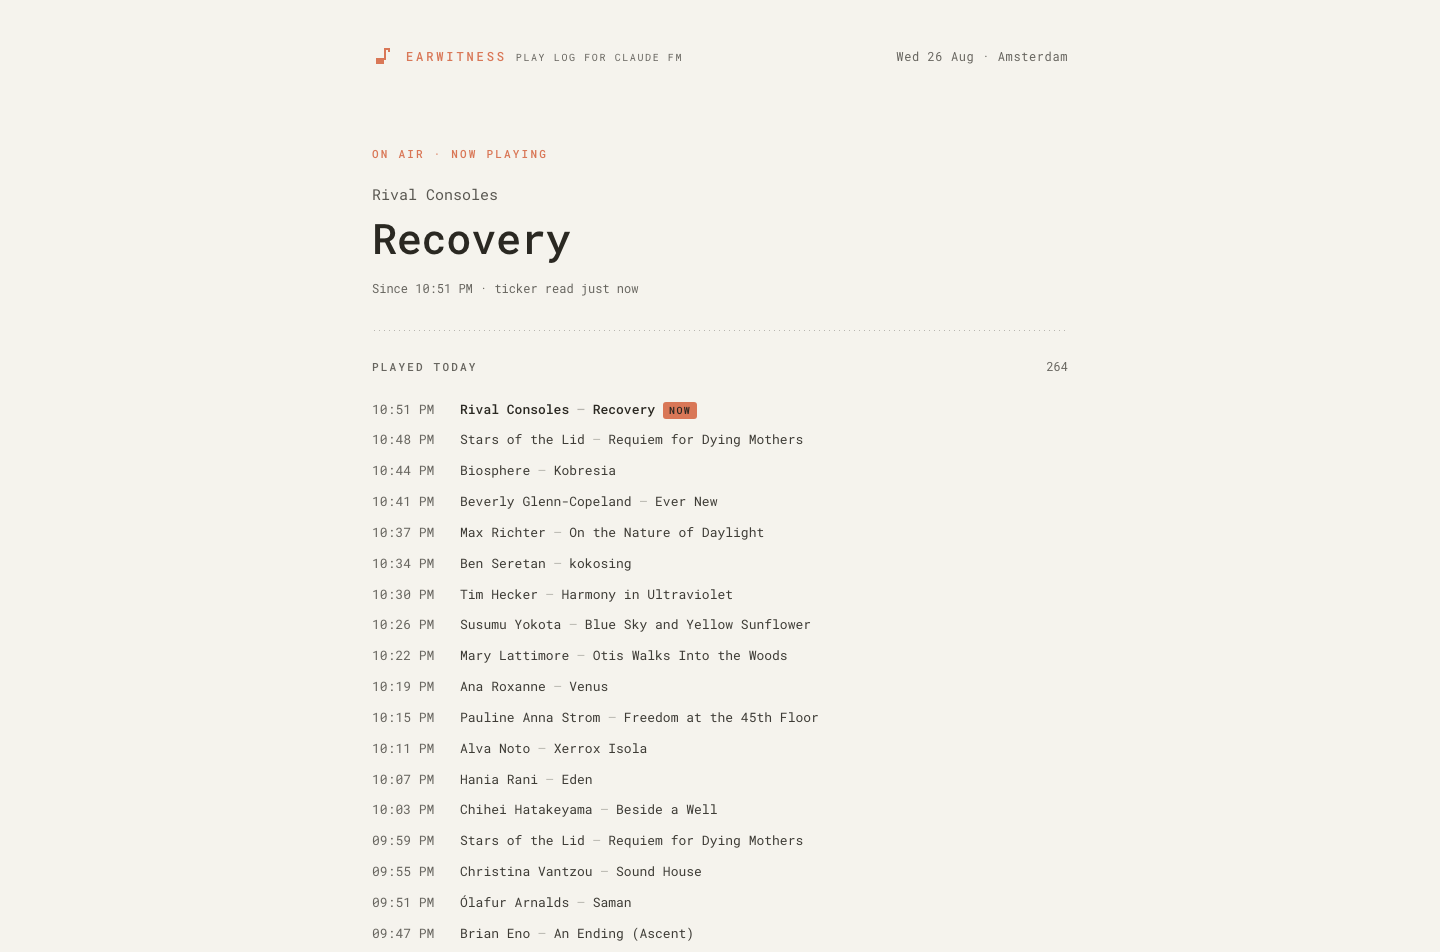
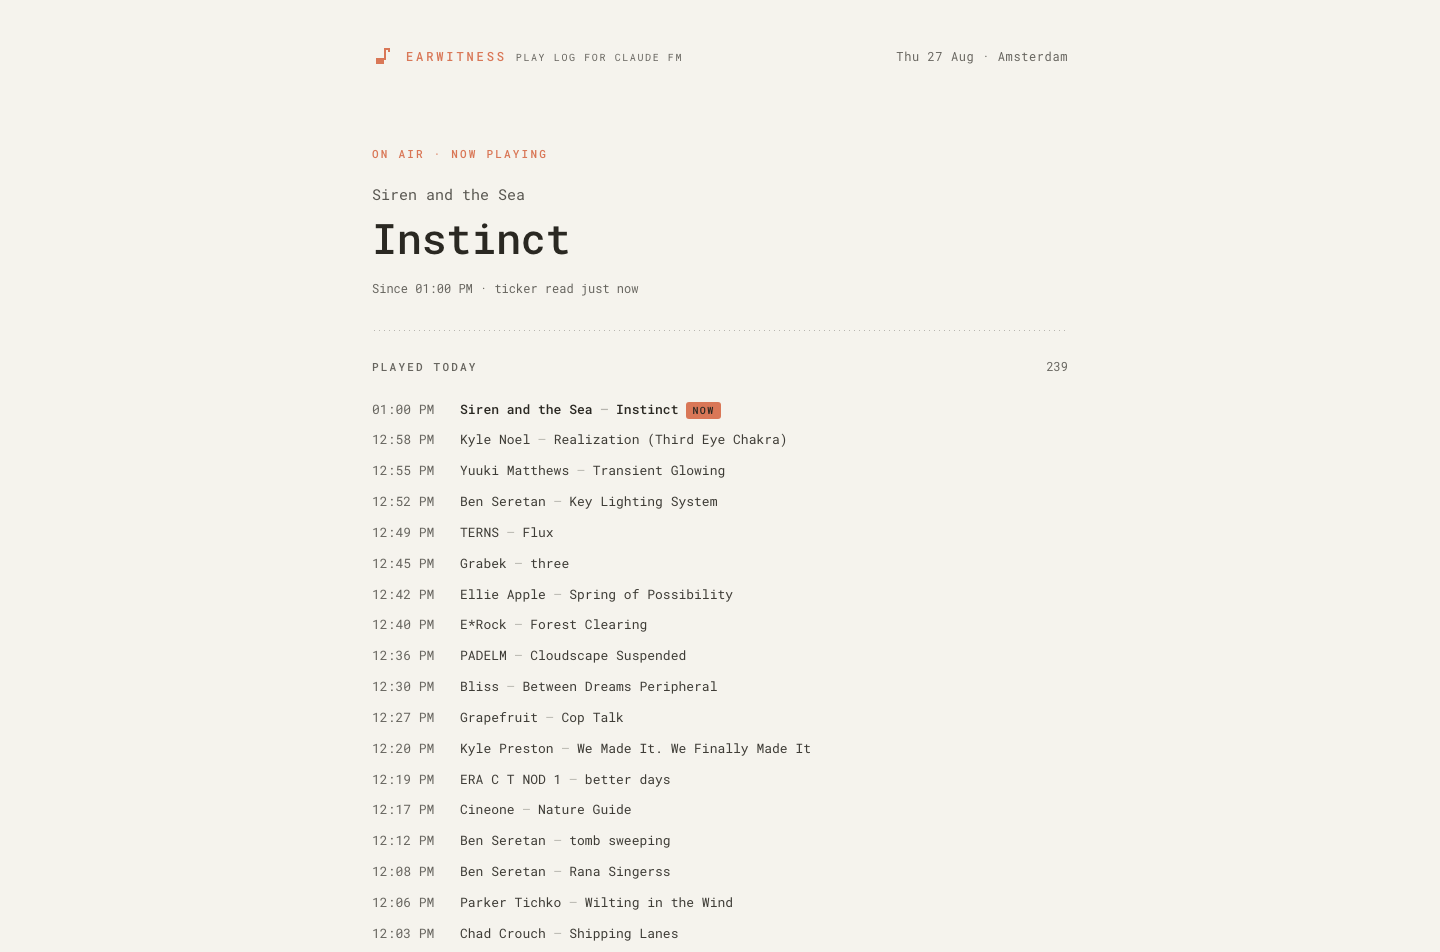
Show the real page in the README

diff --git a/README.md b/README.md
@@ -6,8 +6,6 @@ Unofficial, and not affiliated with Anthropic.
 
 ![The page on air — hero, health line, and the day's log](docs/screenshot-1440.png)
 
-*Drawn at 1440. The plays above are seeded sample data, not a real capture.*
-
 Two supervised processes on one host, no AI calls.
 
 - `tracker/` — Bun + TypeScript loop: every 30 s it OCRs the credit ticker from
@@ -203,14 +201,25 @@ Put the new values in `global.css` with their measured contrast, and update
 SAMPLED in `web/test/palette.test.ts` — that list is the provenance record, and
 nothing may call itself sampled without being in it.
 
-**Redrawing the screenshot** — build `web/`, point `EARWITNESS_STATE` at a
-directory of seeded sample plays, start the server and screenshot the viewport at
-1440×952 with headless Chrome. The desktop width is the only one committed; the
-other two are checked and thrown away. Checking the phone width takes one trick:
-headless Chrome will not open a window narrower than 500px, so a 390px render has
-to happen inside a 390px-wide `<iframe>` — media queries follow the frame — or
-through the DevTools protocol. Screenshotting a 390px window instead silently
-renders at 500 and crops, which reads as an overflow bug that is not there.
+**Redrawing the screenshot** — the committed image is a real capture, so shoot a
+page backed by real state: run the tracker locally until the day's log has some
+depth, or forward the deployment's port (`ssh -N -L 4321:127.0.0.1:4321 HOST`).
+Seeded plays are not an option here — invented songs in the README read as a
+claim about what the stream played. Serve the BUILT app
+(`bun run build && bun run start`) or the deployment, never `astro dev`: the dev
+toolbar sits in the bottom of the frame. Then screenshot the viewport at 1440×952:
+
+```bash
+chrome --headless=new --hide-scrollbars --force-device-scale-factor=1 \
+  --window-size=1440,952 --screenshot=docs/screenshot-1440.png http://localhost:4321/
+```
+
+The desktop width is the only one committed; the other two are checked and thrown
+away. Checking the phone width takes one trick: headless Chrome will not open a
+window narrower than 500px, so a 390px render has to happen inside a 390px-wide
+`<iframe>` — media queries follow the frame — or through the DevTools protocol.
+Screenshotting a 390px window instead silently renders at 500 and crops, which
+reads as an overflow bug that is not there.
 
 Two states the page deliberately does not have:
 
